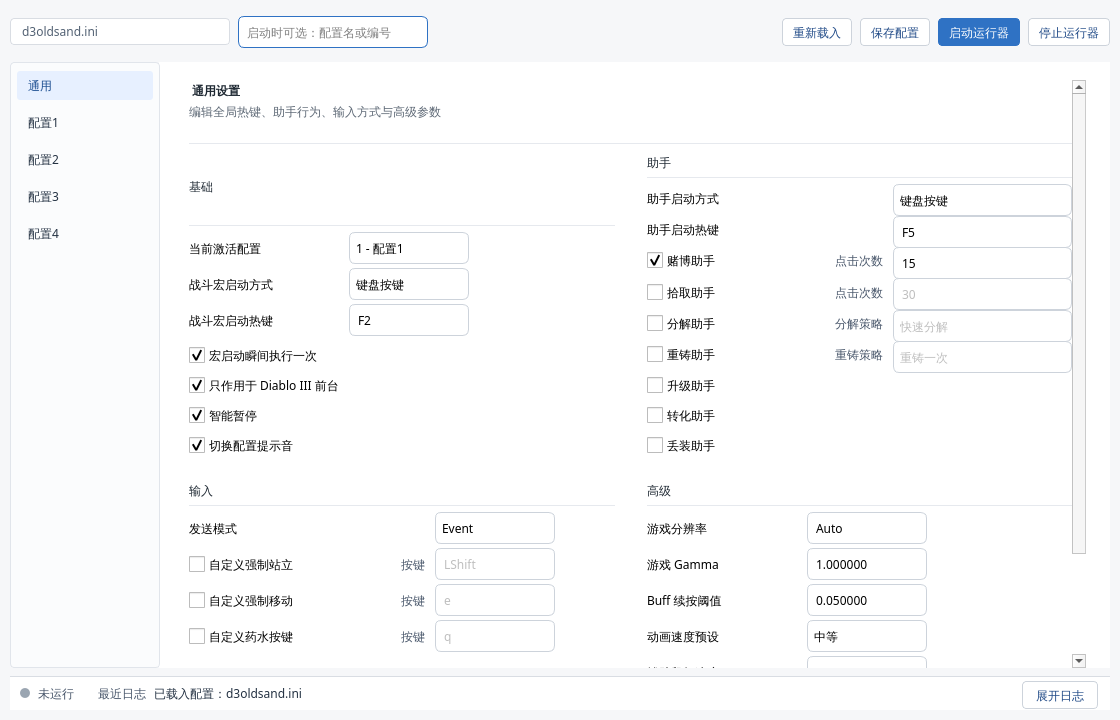
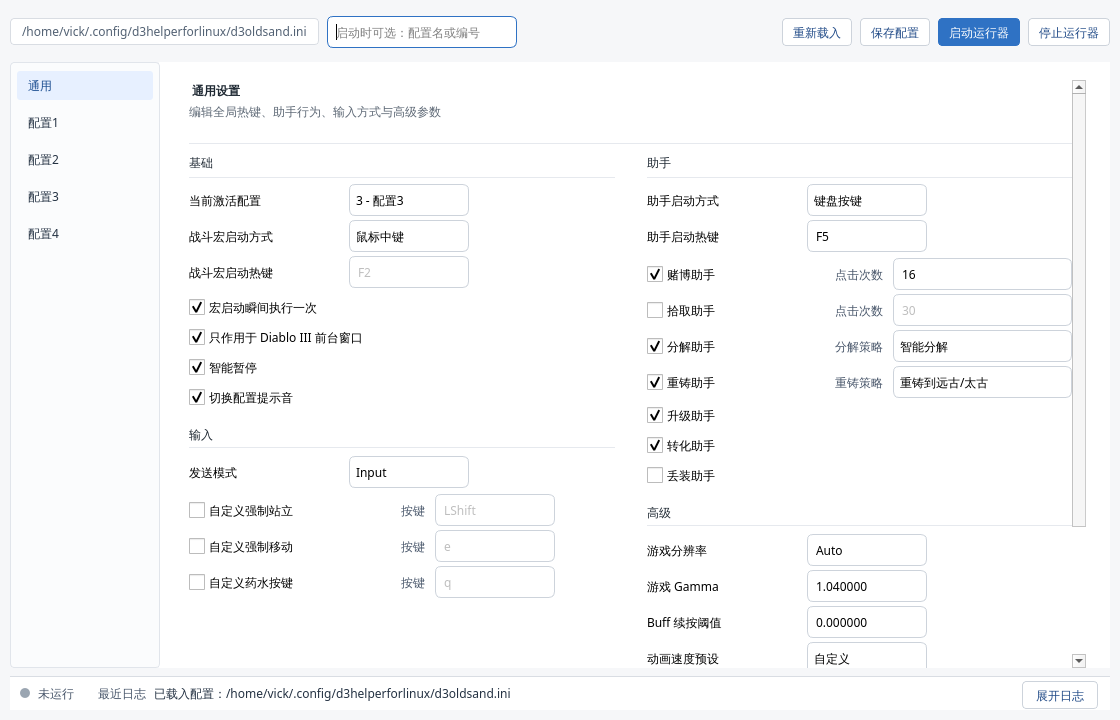
refactor: merge general tab 4-box layout into clean 2-column design
Layout changes:
- Replace 2x2 QGridLayout (4 sections) with QHBoxLayout containing 2
  side-by-side sections, each spanning full column height
- Left section: '基础' options + simple toggles, then inline '输入'
  sub-header + send mode option + custom-key toggles-with-params
- Right section: '助手' options + helper list, then inline '高级'
  sub-header + advanced options
- Remove GENERAL_TOP_SECTION_HEIGHT constant and both setFixedHeight()
  calls that caused 基础 to have a large empty gap at bottom

Fix build_toggle_grid simple-toggle clipping:
- Simple toggle rows (no trailing param) no longer get setFixedWidth(150)
  applied; instead the checkbox spans all 4 columns so long texts like
  '只作用于 Diablo III 前台窗口' render without truncation
- Rows with trailing content keep fixed-width behaviour for param alignment

Add build_sub_header():
- New helper renders a bold section title + separator line, used as
  an inline sub-group divider within a build_section block

Restructure widget creation order:
- All general_widgets are created (and signals/tooltips wired) before
  any section layout is built, preventing KeyError on customstanding etc.

diff --git a/d3keyhelper_linux_gui.py b/d3keyhelper_linux_gui.py
@@ -328,7 +328,7 @@ FORM_FIELD_MAX_WIDTH = 180
 FORM_CONTROL_HEIGHT = 26
 TOGGLE_TEXT_WIDTH = 150
 INLINE_LABEL_WIDTH = 76
-GENERAL_TOP_SECTION_HEIGHT = 304
+
 TOOLBAR_PATH_MIN_WIDTH = 220
 TOOLBAR_PATH_MAX_WIDTH = 320
 TOOLBAR_PROFILE_WIDTH = 190
@@ -535,6 +535,21 @@ def build_section(title: str, hint: str | None = None) -> tuple[QWidget, QVBoxLa
     return section, layout
 
 
+def build_sub_header(text: str) -> QWidget:
+    """Inline sub-section separator inside a build_section block."""
+    wrapper = QWidget()
+    layout = QVBoxLayout(wrapper)
+    layout.setContentsMargins(0, 10, 0, 2)
+    layout.setSpacing(4)
+    label = QLabel(text)
+    label.setObjectName("sectionTitle")
+    sep = QFrame()
+    sep.setObjectName("sectionSeparator")
+    layout.addWidget(label)
+    layout.addWidget(sep)
+    return wrapper
+
+
 def build_two_column_form(fields) -> QWidget:
     wrapper = QWidget()
     layout = QHBoxLayout(wrapper)
@@ -600,26 +615,32 @@ def build_toggle_grid(rows) -> QWidget:
         trailing_widget = row[4] if len(row) > 4 else None
         checkbox.setText(text)
         checkbox.setMinimumHeight(FORM_CONTROL_HEIGHT)
-        checkbox.setFixedWidth(TOGGLE_TEXT_WIDTH)
-        checkbox.setSizePolicy(QSizePolicy.Policy.Fixed, QSizePolicy.Policy.Fixed)
         if tooltip:
             checkbox.setToolTip(tooltip)
-        layout.addWidget(checkbox, row_index, 0)
-        if trailing_label:
-            label = QLabel(trailing_label)
-            label.setObjectName("inlineParamLabel")
-            label.setFixedWidth(INLINE_LABEL_WIDTH)
-            label.setAlignment(Qt.AlignmentFlag.AlignRight | Qt.AlignmentFlag.AlignVCenter)
-            if tooltip:
-                label.setToolTip(tooltip)
-            layout.addWidget(label, row_index, 1)
+        if trailing_label or trailing_widget is not None:
+            # Row has trailing param: fix checkbox width so param columns align across rows
+            checkbox.setFixedWidth(TOGGLE_TEXT_WIDTH)
+            checkbox.setSizePolicy(QSizePolicy.Policy.Fixed, QSizePolicy.Policy.Fixed)
+            layout.addWidget(checkbox, row_index, 0)
+            if trailing_label:
+                label = QLabel(trailing_label)
+                label.setObjectName("inlineParamLabel")
+                label.setFixedWidth(INLINE_LABEL_WIDTH)
+                label.setAlignment(Qt.AlignmentFlag.AlignRight | Qt.AlignmentFlag.AlignVCenter)
+                if tooltip:
+                    label.setToolTip(tooltip)
+                layout.addWidget(label, row_index, 1)
+            else:
+                layout.addItem(QSpacerItem(INLINE_LABEL_WIDTH, FORM_CONTROL_HEIGHT), row_index, 1)
+            if trailing_widget is not None:
+                tune_form_widget(trailing_widget)
+                layout.addWidget(trailing_widget, row_index, 2)
+            else:
+                layout.addItem(QSpacerItem(FORM_FIELD_MIN_WIDTH, FORM_CONTROL_HEIGHT), row_index, 2)
         else:
-            layout.addItem(QSpacerItem(INLINE_LABEL_WIDTH, FORM_CONTROL_HEIGHT), row_index, 1)
-        if trailing_widget is not None:
-            tune_form_widget(trailing_widget)
-            layout.addWidget(trailing_widget, row_index, 2)
-        else:
-            layout.addItem(QSpacerItem(FORM_FIELD_MIN_WIDTH, FORM_CONTROL_HEIGHT), row_index, 2)
+            # Simple toggle: let text flow freely — span across all columns
+            checkbox.setSizePolicy(QSizePolicy.Policy.MinimumExpanding, QSizePolicy.Policy.Fixed)
+            layout.addWidget(checkbox, row_index, 0, 1, 4)
     layout.setColumnStretch(0, 0)
     layout.setColumnStretch(1, 0)
     layout.setColumnStretch(2, 0)
@@ -1468,15 +1489,9 @@ class MainWindow(QMainWindow):
                 tr("编辑全局热键、助手行为、输入方式与高级参数", "Edit global hotkeys, helper behavior, input mode, and advanced options."),
             )
         )
-        columns = QGridLayout()
+        columns = QHBoxLayout()
         columns.setContentsMargins(0, 0, 0, 0)
-        columns.setHorizontalSpacing(32)
-        columns.setVerticalSpacing(24)
-        columns.setColumnStretch(0, 1)
-        columns.setColumnStretch(1, 1)
-        columns.setRowStretch(0, 0)
-        columns.setRowStretch(1, 0)
-        columns.setRowStretch(2, 1)
+        columns.setSpacing(32)
         root.addLayout(columns)
 
         self.general_widgets["activatedprofile"] = build_profile_selector(profile_names, int(section.get("activatedprofile", "1")))
@@ -1492,29 +1507,6 @@ class MainWindow(QMainWindow):
         self.general_widgets["gameresolution"] = QLineEdit(section.get("gameresolution", "Auto"))
         self.general_widgets["gamegamma"] = self._float_spin(0.5, 1.5, float(section.get("gamegamma", "1.0")), 6)
         self.general_widgets["buffpercent"] = self._float_spin(0.0, 1.0, float(section.get("buffpercent", "0.05")), 6)
-        basic_section, basic_layout = build_section(tr("基础", "Basics"))
-        basic_layout.addWidget(
-            build_option_grid(
-                [
-                    ("当前激活配置", self.general_widgets["activatedprofile"]),
-                    ("战斗宏启动方式", self.general_widgets["startmethod"]),
-                    ("战斗宏启动热键", self.general_widgets["starthotkey"]),
-                ]
-            )
-        )
-        basic_layout.addWidget(
-            build_toggle_grid(
-                [
-                    (self.general_widgets["runonstart"], "宏启动瞬间执行一次", RUN_ON_START_TOOLTIP),
-                    (self.general_widgets["d3only"], "只作用于 Diablo III 前台窗口", ""),
-                    (self.general_widgets["enablesmartpause"], "智能暂停", SMART_PAUSE_TOOLTIP),
-                    (self.general_widgets["enablesoundplay"], "切换配置提示音", SOUND_ON_SWITCH_TOOLTIP),
-                ]
-            )
-        )
-        basic_section.setFixedHeight(GENERAL_TOP_SECTION_HEIGHT)
-        columns.addWidget(basic_section, 0, 0, alignment=Qt.AlignmentFlag.AlignTop)
-
         for key, value in [
             ("customstanding", section.get("customstanding", "0") == "1"),
             ("custommoving", section.get("custommoving", "0") == "1"),
@@ -1555,47 +1547,74 @@ class MainWindow(QMainWindow):
         self.general_widgets["helperspeed"].currentIndexChanged.connect(self._apply_helper_speed_preset)
         self.general_widgets["helpermousespeed"].valueChanged.connect(self._sync_helper_speed_preset)
         self.general_widgets["helperanimationdelay"].valueChanged.connect(self._sync_helper_speed_preset)
-        input_section, input_layout = build_section(tr("输入", "Input"))
-        input_layout.addWidget(
-            build_parameter_section_grid(
+        basic_section, basic_layout = build_section(tr("基础", "Basics"))
+        basic_layout.addWidget(
+            build_option_grid(
                 [
-                    ("option", "发送模式", self.general_widgets["sendmode"], SEND_MODE_TOOLTIP),
-                    ("toggle", self.general_widgets["customstanding"], "自定义强制站立", CUSTOM_STANDING_TOOLTIP, "按键", self.general_widgets["customstandinghk"]),
-                    ("toggle", self.general_widgets["custommoving"], "自定义强制移动", CUSTOM_MOVING_TOOLTIP, "按键", self.general_widgets["custommovinghk"]),
-                    ("toggle", self.general_widgets["custompotion"], "自定义药水按键", CUSTOM_POTION_TOOLTIP, "按键", self.general_widgets["custompotionhk"]),
+                    ("当前激活配置", self.general_widgets["activatedprofile"]),
+                    ("战斗宏启动方式", self.general_widgets["startmethod"]),
+                    ("战斗宏启动热键", self.general_widgets["starthotkey"]),
                 ]
             )
         )
-        columns.addWidget(input_section, 1, 0, alignment=Qt.AlignmentFlag.AlignTop)
-
-        helper_section, helper_layout = build_section(tr("助手", "Helpers"))
-        helper_layout.addWidget(
-            build_helper_section_grid(
+        basic_layout.addWidget(
+            build_toggle_grid(
                 [
-                    ("option", "助手启动方式", self.general_widgets["oldsandhelpermethod"], HELPER_HOTKEY_TOOLTIP),
-                    ("option", "助手启动热键", self.general_widgets["oldsandhelperhk"], HELPER_HOTKEY_TOOLTIP),
-                    ("toggle", self.general_widgets["enablegamblehelper"], "赌博助手", GAMBLE_TOOLTIP, "点击次数", self.general_widgets["gamblehelpertimes"]),
-                    ("toggle", self.general_widgets["enableloothelper"], "拾取助手", LOOT_TOOLTIP, "点击次数", self.general_widgets["loothelpertimes"]),
-                    ("toggle", self.general_widgets["enablesalvagehelper"], "分解助手", SALVAGE_ENABLE_TOOLTIP, "分解策略", self.general_widgets["salvagehelpermethod"]),
+                    (self.general_widgets["runonstart"], "宏启动瞬间执行一次", RUN_ON_START_TOOLTIP),
+                    (self.general_widgets["d3only"], "只作用于 Diablo III 前台窗口", ""),
+                    (self.general_widgets["enablesmartpause"], "智能暂停", SMART_PAUSE_TOOLTIP),
+                    (self.general_widgets["enablesoundplay"], "切换配置提示音", SOUND_ON_SWITCH_TOOLTIP),
+                ]
+            )
+        )
+        basic_layout.addWidget(build_sub_header(tr("输入", "Input")))
+        basic_layout.addWidget(
+            build_option_grid(
+                [("发送模式", self.general_widgets["sendmode"], SEND_MODE_TOOLTIP)]
+            )
+        )
+        basic_layout.addWidget(
+            build_toggle_grid(
+                [
+                    (self.general_widgets["customstanding"], "自定义强制站立", CUSTOM_STANDING_TOOLTIP, "按键", self.general_widgets["customstandinghk"]),
+                    (self.general_widgets["custommoving"], "自定义强制移动", CUSTOM_MOVING_TOOLTIP, "按键", self.general_widgets["custommovinghk"]),
+                    (self.general_widgets["custompotion"], "自定义药水按键", CUSTOM_POTION_TOOLTIP, "按键", self.general_widgets["custompotionhk"]),
+                ]
+            )
+        )
+        basic_layout.addStretch(1)
+        columns.addWidget(basic_section, 1)
+
+        input_section, input_layout = build_section(tr("助手", "Helpers"))
+        input_layout.addWidget(
+            build_option_grid(
+                [
+                    ("助手启动方式", self.general_widgets["oldsandhelpermethod"], HELPER_HOTKEY_TOOLTIP),
+                    ("助手启动热键", self.general_widgets["oldsandhelperhk"], HELPER_HOTKEY_TOOLTIP),
+                ]
+            )
+        )
+        input_layout.addWidget(
+            build_helper_list(
+                [
+                    (self.general_widgets["enablegamblehelper"], "赌博助手", GAMBLE_TOOLTIP, "点击次数", self.general_widgets["gamblehelpertimes"]),
+                    (self.general_widgets["enableloothelper"], "拾取助手", LOOT_TOOLTIP, "点击次数", self.general_widgets["loothelpertimes"]),
+                    (self.general_widgets["enablesalvagehelper"], "分解助手", SALVAGE_ENABLE_TOOLTIP, "分解策略", self.general_widgets["salvagehelpermethod"]),
                     (
-                        "toggle",
                         self.general_widgets["enablereforgehelper"],
                         "重铸助手",
                         make_reforge_method_tooltip(self.general_widgets["maxreforge"].value()),
                         "重铸策略",
                         self.general_widgets["reforgehelpermethod"],
                     ),
-                    ("toggle", self.general_widgets["enableupgradehelper"], "升级助手", UPGRADE_TOOLTIP),
-                    ("toggle", self.general_widgets["enableconverthelper"], "转化助手", CONVERT_TOOLTIP),
-                    ("toggle", self.general_widgets["enableabandonhelper"], "丢装助手", ABANDON_TOOLTIP),
+                    (self.general_widgets["enableupgradehelper"], "升级助手", UPGRADE_TOOLTIP),
+                    (self.general_widgets["enableconverthelper"], "转化助手", CONVERT_TOOLTIP),
+                    (self.general_widgets["enableabandonhelper"], "丢装助手", ABANDON_TOOLTIP),
                 ]
             )
         )
-        helper_section.setFixedHeight(GENERAL_TOP_SECTION_HEIGHT)
-        columns.addWidget(helper_section, 0, 1, alignment=Qt.AlignmentFlag.AlignTop)
-
-        advanced_section, advanced_layout = build_section(tr("高级", "Advanced"))
-        advanced_layout.addWidget(
+        input_layout.addWidget(build_sub_header(tr("高级", "Advanced")))
+        input_layout.addWidget(
             build_option_grid(
                 [
                     ("游戏分辨率", self.general_widgets["gameresolution"], GAME_RESOLUTION_TOOLTIP),
@@ -1609,13 +1628,14 @@ class MainWindow(QMainWindow):
                 ]
             )
         )
-        advanced_layout.addWidget(self.general_widgets["safezonestatus"])
+        input_layout.addWidget(self.general_widgets["safezonestatus"])
+        input_layout.addStretch(1)
+        columns.addWidget(input_section, 1)
         self.general_widgets["maxreforge"].valueChanged.connect(self._sync_reforge_tooltip)
         self._sync_reforge_tooltip()
         self._sync_helper_speed_preset()
         self._connect_general_dynamic_controls()
         self._refresh_general_state()
-        columns.addWidget(advanced_section, 1, 1, alignment=Qt.AlignmentFlag.AlignTop)
         root.addStretch(1)
         self._update_runtime_status_widgets()
         return self._wrap_scroll_tab(container)
